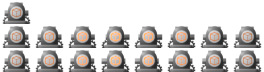
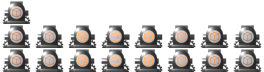
Better insertinator graphics

diff --git a/Clonkworks.c4d/0_Automation.c4d/Insertinator.c4d/Projectile.c4d/Script.c b/Clonkworks.c4d/0_Automation.c4d/Insertinator.c4d/Projectile.c4d/Script.c
@@ -1,0 +1,42 @@
+/*-- Neues Objekt --*/
+
+#strict 2
+
+local CrTime;
+
+func Initialize(){
+  CrTime = FrameCounter();
+}
+
+private func BanList(){
+  return([FTG1,FTG2,FTG3,FTG4,FTG5,FTG6,FTG7,INSR,INS2,CNVS,CVS2,CHM2,ANV2,EXDR,EXDC,CT5P,TWR1,TWR2]);
+}
+
+func TryInsert(){
+
+  SetYDir(0);
+  if(FrameCounter() > CrTime+(38) || !Contents(0)){
+    Exit(Contents(0));
+    RemoveObject();
+    return(0);
+  }
+  
+  //set object graphics
+  SetGraphics(0, this(), GetID(Contents(0)),1,1);
+  //make sure size follows the same value as the objects size, and flip the object accordingly to direction
+  if(GetXDir() > 0) SetObjDrawTransform(-(GetCon(Contents(0))*10),0,0,0,GetCon(Contents(0))*10,0,this,1);
+  else SetObjDrawTransform((GetCon(Contents(0))*10),0,0,0,GetCon(Contents(0))*10,0,this,1);
+
+  if(!Random(2)) CreateParticle("PxSpark",0,0,RandomX(0,-GetXDir()),RandomX(-2,2),RandomX(10,30),RGBa(255,255,255));
+  for(var i in FindObjects(Find_AtPoint(),Find_NoContainer(),Find_Or(Find_Category(C4D_Vehicle),Find_Category(C4D_Structure)),Find_OCF(OCF_Container))){
+      var list = BanList();
+      if(InArray(GetID(i),list) != -1) continue;
+      Contents(0)->Sound("Electric",0,this(),50,0,0,0,100);
+      Enter(i,Contents(0));
+      RemoveObject();
+  }
+}
+
+func Destruction(){
+  CastParticles("PxSpark",5,20,0,0,10,30,RGBa(255,255,255),RGBa(255,255,255));
+}
